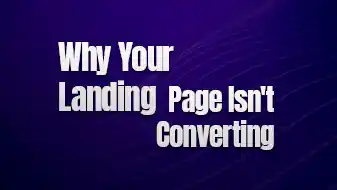
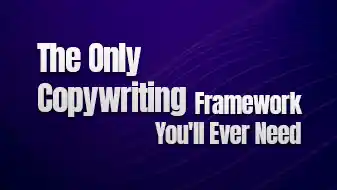
image update, blog

Changed region(s): [[0.089, 0.2105, 0.9199, 0.8158]]

diff --git a/app/portfolio/graphic/page.tsx b/app/portfolio/graphic/page.tsx
@@ -16,13 +16,13 @@ const SECTIONS = [
     ariaLabel: 'Social Media Posts',
     carouselClass: 'post-carousel',
     items: [
-      { src: '/image/graphic/post-1.webp', alt: 'Our Services Post',   label: 'Our Services Post'   },
-      { src: '/image/graphic/post-2.webp', alt: 'GAIA Brand Post',     label: 'GAIA Brand Post'     },
-      { src: '/image/graphic/post-3.webp', alt: 'Booked to Speak',     label: 'Booked to Speak'     },
+      { src: '/image/graphic/post-10.webp', alt: 'Our Services Post',   label: 'Our Services Post'   },
+      { src: '/image/graphic/post-11.webp', alt: 'GAIA Brand Post',     label: 'GAIA Brand Post'     },
+      { src: '/image/graphic/post-13.webp', alt: 'Booked to Speak',     label: 'Booked to Speak'     },
       { src: '/image/graphic/post-4.webp', alt: 'Buccaneers Games',    label: 'Buccaneers Games'    },
-      { src: '/image/graphic/post-5.webp', alt: 'Open House Listing',  label: 'Open House Listing'  },
-      { src: '/image/graphic/post-6.webp', alt: 'Fashion Editorial',   label: 'Fashion Editorial'   },
-      { src: '/image/graphic/post-7.webp', alt: 'Skincare Campaign',   label: 'Skincare Campaign'   },
+      { src: '/image/graphic/post-15.webp', alt: 'Open House Listing',  label: 'Open House Listing'  },
+      { src: '/image/graphic/post-16.webp', alt: 'Fashion Editorial',   label: 'Fashion Editorial'   },
+      { src: '/image/graphic/post-17.webp', alt: 'Skincare Campaign',   label: 'Skincare Campaign'   },
       { src: '/image/graphic/post-8.webp', alt: 'Bright and Visible',  label: 'Bright and Visible'  },
     ],
   },
@@ -75,6 +75,8 @@ const SECTIONS = [
       { src: '/image/graphic/poster-6.webp', alt: 'Neon Festival',       label: 'Neon Festival'       },
       { src: '/image/graphic/poster-7.webp', alt: 'Exhibition Poster',   label: 'Exhibition Poster'   },
       { src: '/image/graphic/poster-8.webp', alt: 'Documentary',         label: 'Documentary'         },
+      { src: '/image/graphic/poster-9.webp', alt: 'Exhibition Poster',   label: 'Exhibition Poster'   },
+      { src: '/image/graphic/poster-10.webp', alt: 'Documentary',         label: 'Documentary'         },
     ],
   },
   {

diff --git a/app/blog/page.tsx b/app/blog/page.tsx
@@ -13,42 +13,49 @@ const posts = [
     slug: 'the-only-copywriting-framework',
     title: 'The Only Copywriting Framework You\'ll Ever Need',
     date: 'Mar 18, 2024',
+    image: '/image/Blog/blog-1.webp',
     featured: true,
   },
   {
     slug: 'why-my-ads-print-money',
     title: 'Why My ADs Print Money While Others Bleed Cash',
     date: 'Jul 4, 2024',
+    image: '/image/Blog/blog-2.webp',
     featured: false,
   },
   {
     slug: 'create-1000-ads-meta-andromeda',
     title: 'Create 1000 Ads Without Recording Anything',
     date: 'Nov 22, 2024',
+    image: '/image/Blog/blog-3.webp',
     featured: false,
   },
   {
     slug: '24-marketing-lessons',
     title: '24 Marketing Lessons That Took Me 3 Years to Learn',
     date: 'Feb 9, 2025',
+    image: '/image/Blog/blog-4.webp',
     featured: false,
   },
   {
     slug: 'email-marketing-is-not-about-yes',
     title: 'Email Marketing Is Not About Yes',
     date: 'Jun 14, 2025',
+    image: '/image/Blog/blog-5.webp',
     featured: false,
   },
   {
     slug: 'killer-video-ad-scripts',
     title: 'How to Write Killer, High-Converting Video Ad Scripts',
     date: 'Sep 3, 2025',
+    image: '/image/Blog/blog-6.webp',
     featured: false,
   },
   {
     slug: 'landing-page-not-converting',
     title: 'Why Your Landing Page Isn\'t Converting',
     date: 'Dec 11, 2025',
+    image: '/image/Blog/blog-7.webp',
     featured: false,
   },
 ];

diff --git a/components/BlogCard.tsx b/components/BlogCard.tsx
@@ -1,21 +1,22 @@
 import Link from 'next/link';
+import Image from 'next/image';
 
 interface BlogCardProps {
   slug: string;
   title: string;
   date: string;
+  image: string;
   featured?: boolean;
 }
 
-export default function BlogCard({ slug, title, date, featured = false }: BlogCardProps) {
+export default function BlogCard({ slug, title, date, image, featured = false }: BlogCardProps) {
   return (
     <Link
       href={`/blog/${slug}`}
       className={`blog-card${featured ? ' blog-card--featured' : ''}`}
     >
       <div className="blog-card__thumb">
-        {/* Image placeholder — replace with next/image when images are available */}
-        <div style={{ width: '100%', height: '100%', background: 'linear-gradient(145deg,#0a0818,#1e0848)' }} />
+        <Image src={image} alt={title} fill style={{ objectFit: 'cover' }} />
       </div>
       <div className="blog-card__body">
         <div className="blog-card__meta">

diff --git a/components/BlogPostLayout.tsx b/components/BlogPostLayout.tsx
@@ -1,4 +1,5 @@
 import Link from 'next/link';
+import Image from 'next/image';
 import type { ReactNode } from 'react';
 
 interface RelatedPost {
@@ -11,6 +12,7 @@ interface BlogPostLayoutProps {
   title: ReactNode;
   date: string;
   readTime: string;
+  image: string;
   relatedPosts: RelatedPost[];
   children: ReactNode;
 }
@@ -19,6 +21,7 @@ export default function BlogPostLayout({
   title,
   date,
   readTime,
+  image,
   relatedPosts,
   children,
 }: BlogPostLayoutProps) {
@@ -35,7 +38,9 @@ export default function BlogPostLayout({
               <span>{readTime}</span>
             </div>
           </div>
-          <div className="post-cover" aria-hidden="true" />
+          <div className="post-cover" aria-hidden="true">
+            <Image src={image} alt="" width={900} height={500} style={{ width: '100%', height: 'auto' }} />
+          </div>
         </section>
       </div>
 

diff --git a/app/blog/killer-video-ad-scripts/page.tsx b/app/blog/killer-video-ad-scripts/page.tsx
@@ -13,6 +13,7 @@ export default function BlogPostPage() {
       title={<>How to Write Killer, High-Converting Video Ad Scripts <span className="grad-text">(Without Templates, AI Guesswork, or Agencies)</span></>}
       date="Mar 15, 2026"
       readTime="12 min read"
+      image="/image/Blog/blog-6.webp"
       relatedPosts={[
         { href: '/blog/create-1000-ads-meta-andromeda', title: 'Create 1000 Ads Without Recording Anything', description: 'How to scale Meta Ads Andromeda with a creative machine that never runs dry.' },
         { href: '/blog/24-marketing-lessons', title: '24 Marketing Lessons That Took Me 3 Years to Learn', description: 'Distilled patterns from 3 years of testing, thousands in ad spend, and hundreds of tests.' },

diff --git a/app/blog/landing-page-not-converting/page.tsx b/app/blog/landing-page-not-converting/page.tsx
@@ -13,6 +13,7 @@ export default function BlogPostPage() {
       title={<>Why Your Landing Page Isn&apos;t Converting <span className="grad-text">(This Fix Tripled My Sales in 24 Hours)</span></>}
       date="Mar 15, 2026"
       readTime="14 min read"
+      image="/image/Blog/blog-7.webp"
       relatedPosts={[
         { href: '/blog/why-my-ads-print-money', title: 'Why My ADs Print Money While Others Bleed Cash', description: 'The ultimate secret to paid advertising is economics, funnels, and long-term thinking.' },
         { href: '/blog/killer-video-ad-scripts', title: 'How to Write Killer, High-Converting Video Ad Scripts', description: 'The only script framework you need — word by word, based on 1,000+ tested video ads.' },

diff --git a/app/blog/24-marketing-lessons/page.tsx b/app/blog/24-marketing-lessons/page.tsx
@@ -13,6 +13,7 @@ export default function BlogPostPage() {
       title={<>24 Marketing Lessons That Took Me <span className="grad-text">3 Years, Thousands of Dollars, and Hundreds of Tests</span> to Learn</>}
       date="Mar 15, 2026"
       readTime="25 min read"
+      image="/image/Blog/blog-4.webp"
       relatedPosts={[
         { href: '/blog/why-my-ads-print-money', title: 'Why My ADs Print Money While Others Bleed Cash', description: 'The ultimate secret to paid advertising is economics, funnels, and long-term thinking.' },
         { href: '/blog/create-1000-ads-meta-andromeda', title: 'Create 1000 Ads Without Recording Anything', description: 'How to scale Meta Ads Andromeda with a creative machine that never runs dry.' },

diff --git a/app/blog/the-only-copywriting-framework/page.tsx b/app/blog/the-only-copywriting-framework/page.tsx
@@ -13,6 +13,7 @@ export default function BlogPostPage() {
       title={<>The Only Copywriting Framework <span className="grad-text">You&apos;ll Ever Need</span></>}
       date="Mar 15, 2026"
       readTime="22 min read"
+      image="/image/Blog/blog-1.webp"
       relatedPosts={[
         { href: '/blog/why-my-ads-print-money', title: 'Why My ADs Print Money While Others Bleed Cash', description: 'The ultimate secret to paid advertising is economics, funnels, and long-term thinking.' },
         { href: '/blog/landing-page-not-converting', title: "Why Your Landing Page Isn't Converting", description: 'The structural and psychological fixes that actually move the needle on conversions.' },

diff --git a/app/blog/email-marketing-is-not-about-yes/page.tsx b/app/blog/email-marketing-is-not-about-yes/page.tsx
@@ -13,6 +13,7 @@ export default function BlogPostPage() {
       title={<>Email Marketing Is <span className="grad-text">Not About Yes</span></>}
       date="Mar 15, 2026"
       readTime="30 min read"
+      image="/image/Blog/blog-5.webp"
       relatedPosts={[
         { href: '/blog/why-my-ads-print-money', title: 'Why My ADs Print Money While Others Bleed Cash', description: 'The ultimate secret to paid advertising is economics, funnels, and long-term thinking.' },
         { href: '/blog/24-marketing-lessons', title: '24 Marketing Lessons That Took Me 3 Years to Learn', description: 'Distilled patterns from 3 years of testing, thousands in ad spend, and hundreds of tests.' },

diff --git a/app/blog/create-1000-ads-meta-andromeda/page.tsx b/app/blog/create-1000-ads-meta-andromeda/page.tsx
@@ -13,6 +13,7 @@ export default function BlogPostPage() {
       title={<>Create 1000 Ads Without Recording Anything <span className="grad-text">(How To Scale Meta Ads Andromeda)</span></>}
       date="Mar 15, 2025"
       readTime="20 min read"
+      image="/image/Blog/blog-3.webp"
       relatedPosts={[
         { href: '/blog/why-my-ads-print-money', title: 'Why My ADs Print Money While Others Bleed Cash', description: 'The ultimate secret to paid advertising is economics, funnels, and long-term thinking.' },
         { href: '#', title: 'The Only Copywriting Framework You Need', description: 'Coming soon' },

diff --git a/app/blog/why-my-ads-print-money/page.tsx b/app/blog/why-my-ads-print-money/page.tsx
@@ -13,6 +13,7 @@ export default function BlogPostPage() {
       title={<>Why My ADs Print Money While <span className="grad-text">Others Bleed Cash</span></>}
       date="Apr 8, 2022"
       readTime="17 min read"
+      image="/image/Blog/blog-2.webp"
       relatedPosts={[
         { href: '#', title: 'The Only Copywriting Framework You Need', description: 'Coming soon' },
         { href: '#', title: 'Bundling at Framer: Rolldown for Faster Sites', description: 'Coming soon' },
